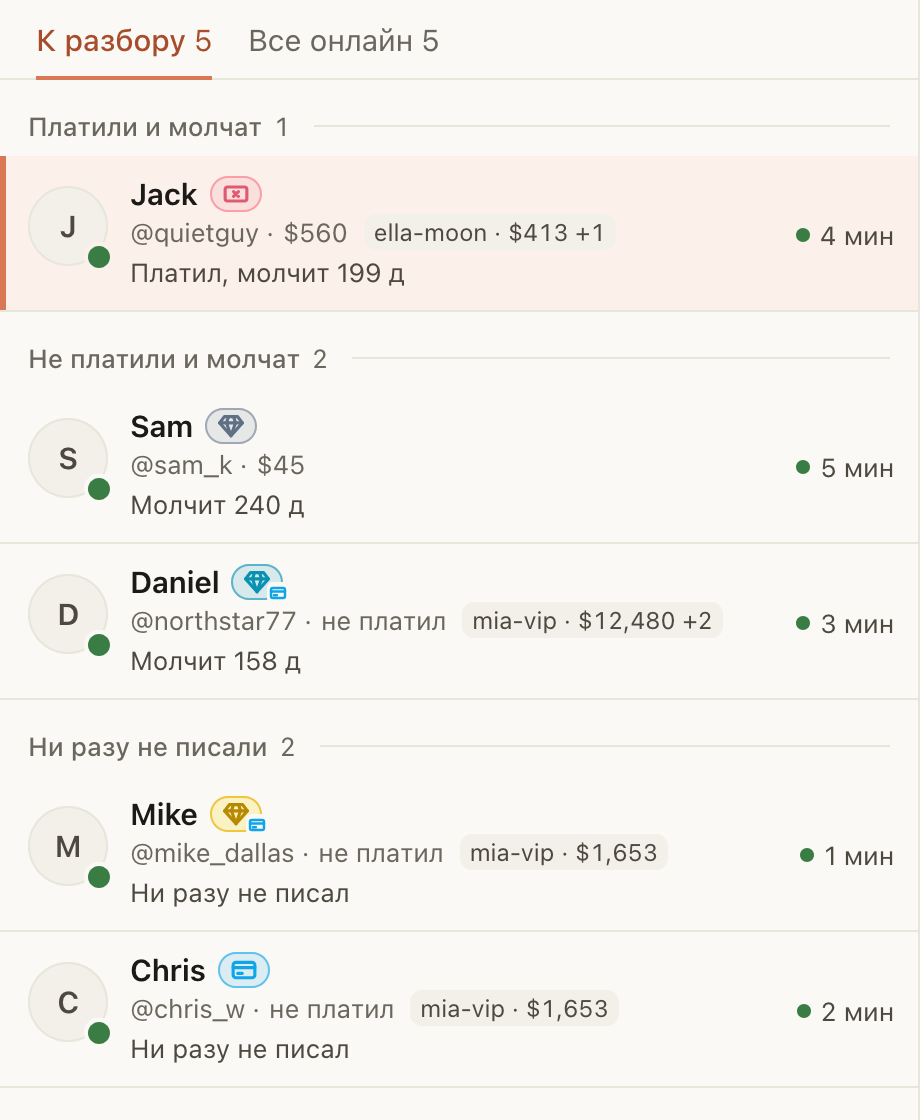
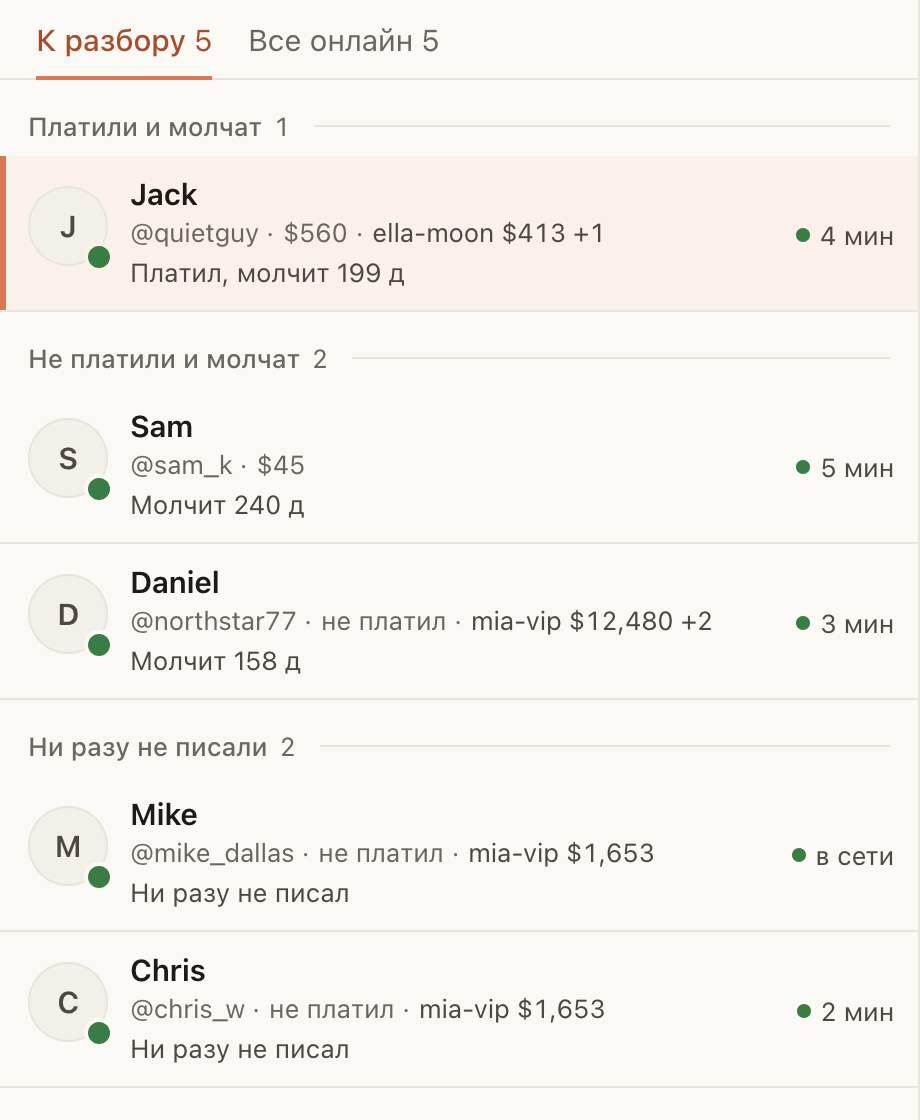
refactor(online): the other-pages mark is plain small print, no plate
The mark reads as the rest of the row's line: «@handle · не платил · lora-2 $1,653», one tone darker than the line, with
no background of its own and no dot inside. The same words in Fansly's chat header and in the tooltip.

diff --git a/packages/ui/src/kit/components/OtherPages.tsx b/packages/ui/src/kit/components/OtherPages.tsx
@@ -1,6 +1,7 @@
-// What a fan spends on other pages of the agency (hub `otherPagesSpend`): a short mark in the row's small print, so a
-// chatter does not greet him as a cold follower. «lora-2 · $1,653»; several pages: the biggest and «+N», the tooltip
-// lists all. Neutral ink: an attribute of a fan, never a warning. One line, whole: the row's own line gives way to it.
+// What a fan spends on other pages of the agency (hub `otherPagesSpend`): the rest of the row's small print, so a chatter
+// does not greet him as a cold follower. «@handle · не платил · lora-2 $1,653»; several pages: the biggest and «+N», the
+// tooltip lists all. No plate and no colour of its own: one tone darker than the line, an attribute of a fan, never a
+// warning. Whole: the row's own line gives way to it.
 
 import { type JSX } from 'preact';
 
@@ -11,8 +12,8 @@ import { useTooltip } from './Tooltip';
 
 type Money = Pick<I18n, 'formatMoneyMills'>;
 
-/** One page: «lora-2 · $1,653». */
-export const otherPagesLine = (i18n: Money, page: OtherPageSpendVM): string => `${page.pageLabel} · ${i18n.formatMoneyMills(page.grossMills)}`;
+/** One page: «lora-2 $1,653». */
+export const otherPagesLine = (i18n: Money, page: OtherPageSpendVM): string => `${page.pageLabel} ${i18n.formatMoneyMills(page.grossMills)}`;
 
 /** The mark's text: the biggest page, and «+N» for the rest. The list comes the biggest first. */
 export function otherPagesLabel(i18n: Money, pages: readonly OtherPageSpendVM[]): string {
@@ -35,5 +36,6 @@ export function OtherPagesMark({ pages }: { readonly pages: readonly OtherPageSp
 }
 
 export const OTHER_PAGES_CSS = `
-.cg-other { flex: none; max-width: 100%; box-sizing: border-box; padding: 0 5px; overflow: hidden; border-radius: var(--cg-r-sm); background: var(--cg-chip); white-space: nowrap; text-overflow: ellipsis; font-size: var(--cg-text-2xs); color: var(--cg-ink-2); }
+.cg-other { flex: none; max-width: 100%; margin-left: -4px; overflow: hidden; white-space: nowrap; text-overflow: ellipsis; font-size: var(--cg-text-sm); color: var(--cg-ink-2); }
+.cg-other::before { content: '·'; margin-right: .35em; color: var(--cg-ink-muted); }
 `;

diff --git a/packages/ui/src/newcomers/frame.css.ts b/packages/ui/src/newcomers/frame.css.ts
@@ -70,6 +70,7 @@ ${/* «в разговоре: …» rides the meta line: a line of its own would
 .cg-nw__mline > .cg-talk { flex: 0 1 auto; min-width: 0; }
 ${/* The mark of the fan's money elsewhere stays whole: the @handle line gives way to it. */ ''}
 .cg-nw__mline:has(> .cg-other) > .cg-nw__meta { flex: 0 1 auto; min-width: 0; }
+.cg-nw__mline > .cg-other { line-height: 16px; }
 ${/* The line in parts: the @handle is cut first, down to a few letters (never a clipped «@»), then what follows it (what the fan paid here, how long ago). */ ''}
 .cg-nw__meta--parts { display: flex; }
 .cg-nw__mh { flex: 0 1000 auto; min-width: 3em; padding-right: 1px; overflow: hidden; text-overflow: ellipsis; white-space: pre; }
@@ -97,7 +98,7 @@ ${/* The line in parts: the @handle is cut first, down to a few letters (never a
 .cg-nw__pick { position: relative; display: inline-flex; width: 40px; height: 40px; margin-top: 6px; padding: 0; border-radius: 50%; }
 ${/* «Крупнее»: 58 px of text (20 + 18 + 2 + 18), the draft's two lines of 19 px. */ ''}
 .cg-nw.is-large .cg-nw__name { line-height: 20px; }
-.cg-nw.is-large .cg-nw__meta, .cg-nw.is-large .cg-nw__st { line-height: 18px; }
+.cg-nw.is-large .cg-nw__meta, .cg-nw.is-large .cg-nw__mline > .cg-other, .cg-nw.is-large .cg-nw__st { line-height: 18px; }
 .cg-nw.is-large .cg-nw__draft { line-height: 19px; }
 .cg-nw.is-large .cg-nw__pick { margin-top: 9px; }
 .cg-nw__tick {

diff --git a/packages/ui/src/hosts/fansly/FanMarks.tsx b/packages/ui/src/hosts/fansly/FanMarks.tsx
@@ -1,6 +1,6 @@
 // The open fan's marks in Fansly's own chat header, after «Регистрация»: the agency's list the fan is in («💩 Бомж», the
 // list's own label), «⛔ Блоклист» when FANSLY BLOCKLIST has posts about the fan, and what he spends on other pages
-// («lora-2 · $1,653 +1»). In that row's size: the warnings in the warm and the red ink, the money in the row's neutral
+// («lora-2 $1,653 +1»). In that row's size: the warnings in the warm and the red ink, the money in the row's neutral
 // one; nothing at all when no mark applies. They disable nothing.
 //
 // Each mark explains itself in a card under it: on hover (after a short pause, kept while the pointer is over the mark

diff --git a/packages/ui/src/kit/components/OtherPages.test.ts b/packages/ui/src/kit/components/OtherPages.test.ts
@@ -10,8 +10,8 @@ describe('the mark of a fan money on other pages', () => {
     const ari = { pageLabel: 'ari-1', grossMills: 120_000 };
     const lilly = { pageLabel: 'lilly-1', grossMills: 40_000 };
     expect(otherPagesLabel(i18n, [])).toBe('');
-    expect(otherPagesLabel(i18n, [lora])).toBe('lora-2 · $1653');
-    expect(otherPagesLabel(i18n, [lora, ari])).toBe('lora-2 · $1653 +1');
-    expect(otherPagesLabel(i18n, [lora, ari, lilly])).toBe('lora-2 · $1653 +2');
+    expect(otherPagesLabel(i18n, [lora])).toBe('lora-2 $1653');
+    expect(otherPagesLabel(i18n, [lora, ari])).toBe('lora-2 $1653 +1');
+    expect(otherPagesLabel(i18n, [lora, ari, lilly])).toBe('lora-2 $1653 +2');
   });
 });

diff --git a/changes/other-pages-mark.md b/changes/other-pages-mark.md
@@ -7,7 +7,7 @@ sites: chatspace, fansly
 
 Для чаттеров, которые пишут зашедшим и новым фанам. Фан, который платит на одной странице агентства, часто просто
 подписан на другую и там выглядит холодным. Теперь в строке такого фана рядом с ником видно, где и сколько он
-потратил: `mia-vip · $1,653`. Если страниц несколько, показана самая крупная и «+1»; наведите на метку, и подсказка
+потратил: `mia-vip $1,653`. Если страниц несколько, показана самая крупная и «+1»; наведите на метку, и подсказка
 покажет все страницы с суммами.
 
 Где это видно:
